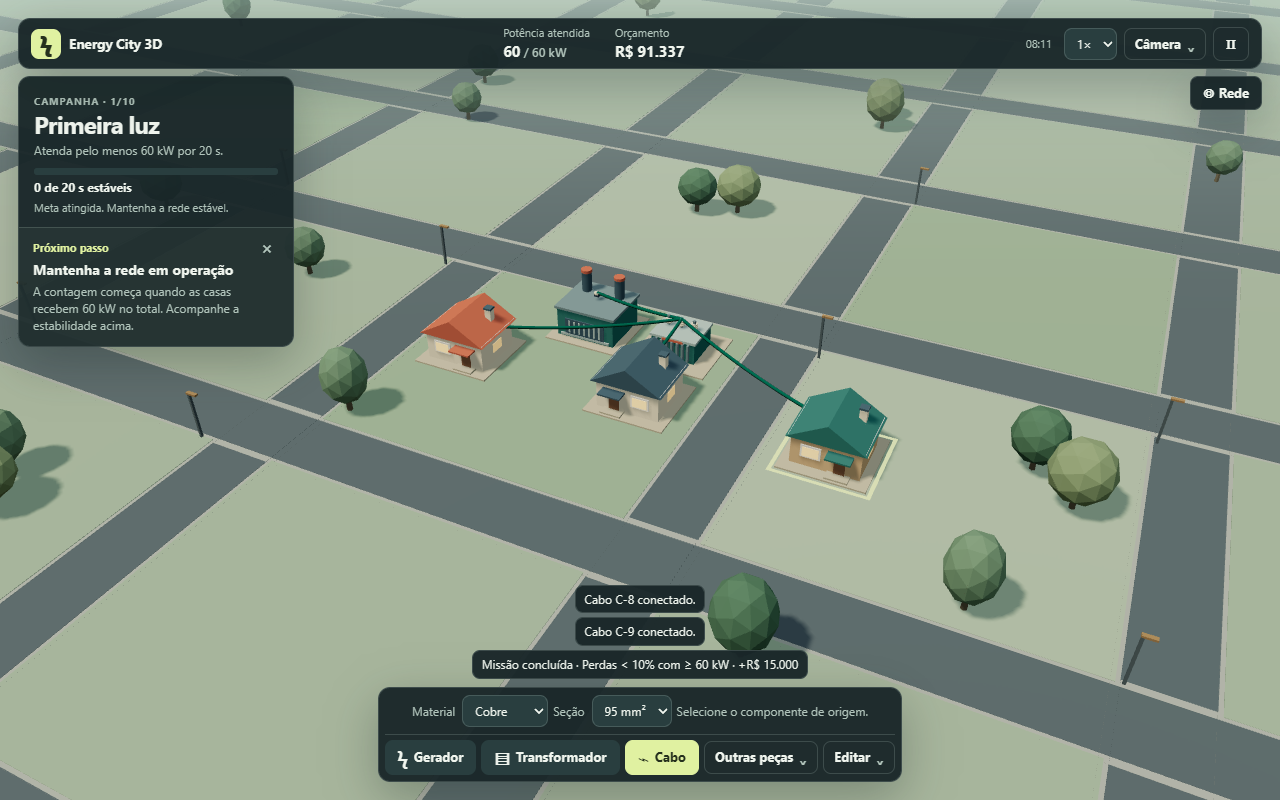
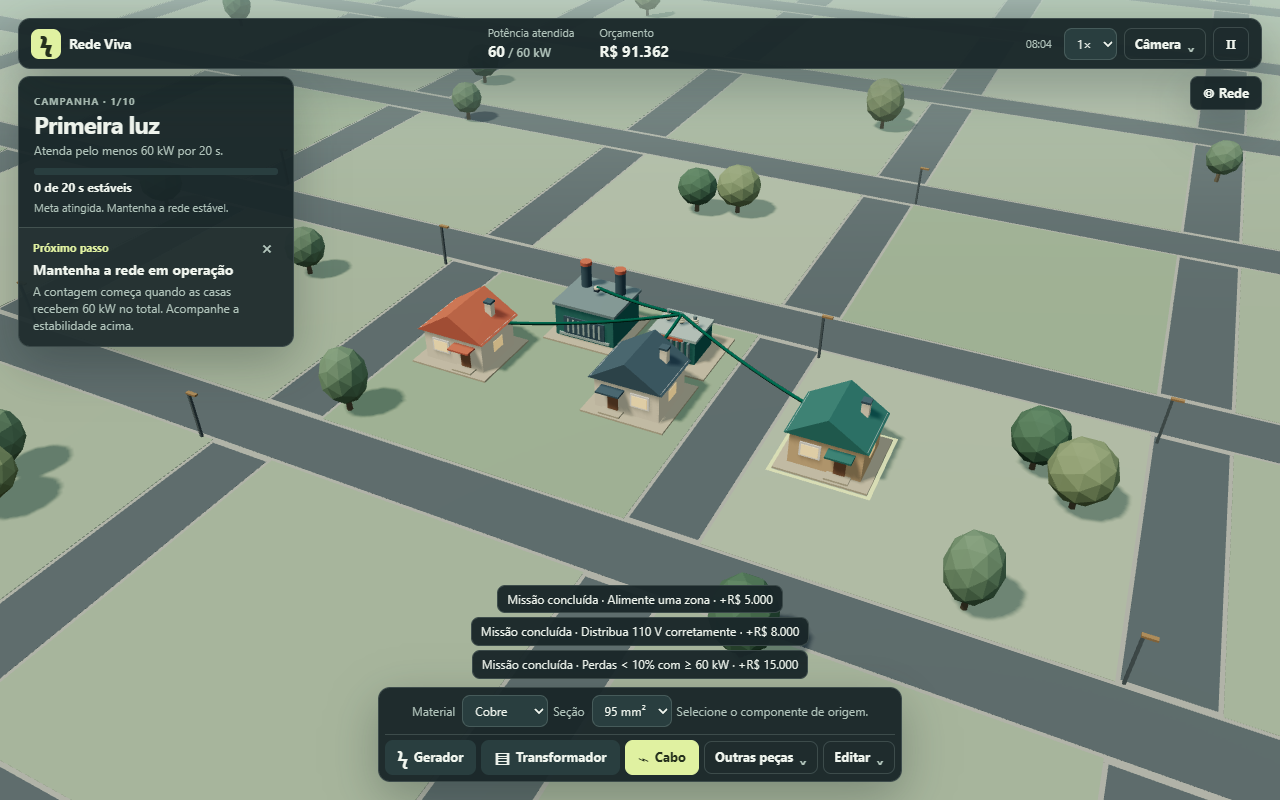
Renomear o jogo para Rede Viva

diff --git a/src/ui/screens.tsx b/src/ui/screens.tsx
@@ -114,7 +114,7 @@ export function CreditsPanel() {
   return (
     <Modal title="ℹ Créditos" onClose={close}>
       <div className={css.col}>
-        <div><b>Energy City 3D</b> — simulador didático de rede elétrica.</div>
+        <div><b>{strings.appTitle}</b> — simulador didático de rede elétrica.</div>
         <div className={css.muted}>Motor elétrico, progressão, arte procedural e áudio sintetizado.</div>
         <div>Feito com React, TypeScript, three.js / React Three Fiber e zustand.</div>
         <div className={css.row}><Button variant="primary" onClick={close}>Fechar</Button></div>

diff --git a/index.html b/index.html
@@ -1,5 +1,5 @@
 <!doctype html>
 <html lang="pt-BR">
-  <head><meta charset="UTF-8" /><meta name="viewport" content="width=device-width, initial-scale=1.0" /><title>Energy City 3D</title></head>
+  <head><meta charset="UTF-8" /><meta name="viewport" content="width=device-width, initial-scale=1.0" /><title>Rede Viva</title></head>
   <body style="margin:0;background:#0b1220"><div id="root"></div><script type="module" src="/src/main.tsx"></script></body>
 </html>

diff --git a/src/i18n/pt-BR.ts b/src/i18n/pt-BR.ts
@@ -1,6 +1,6 @@
 // Textos da interface em pt-BR, centralizados e prontos para i18n.
 export const strings = {
-  appTitle: 'Energy City 3D',
+  appTitle: 'Rede Viva',
   hud: {
     demand: 'Demanda',
     supplied: 'Atendida',

diff --git a/README.md b/README.md
@@ -1,6 +1,6 @@
-# Energy City 3D
+# Rede Viva
 
-Projete uma rede elétrica para acender um bairro e acompanhar o crescimento da cidade. **Energy City 3D** é um simulador didático em 3D. Cada escolha de tensão, material, seção e rota afeta a queda de tensão, as perdas e a integridade da rede.
+Projete uma rede elétrica para acender um bairro e acompanhar o crescimento da cidade. **Rede Viva** é um simulador didático em 3D. Cada escolha de tensão, material, seção e rota afeta a queda de tensão, as perdas e a integridade da rede.
 
 ![Bairro inicial energizado, com a meta de 60 kW atingida](docs/screenshots/gameplay.png)
 

diff --git a/CHANGELOG.md b/CHANGELOG.md
@@ -4,6 +4,8 @@ Formato baseado em [Keep a Changelog](https://keepachangelog.com/pt-BR/1.1.0/); 
 
 ## [Não lançado]
 
+- O jogo passa a se chamar **Rede Viva**.
+
 ### Eletricista e escala da cidade
 
 - Eletricista articulado com caminhada e corrida ligadas ao deslocamento, apoio dos pés, balanço de braços e câmera de terceira pessoa mais próxima.
